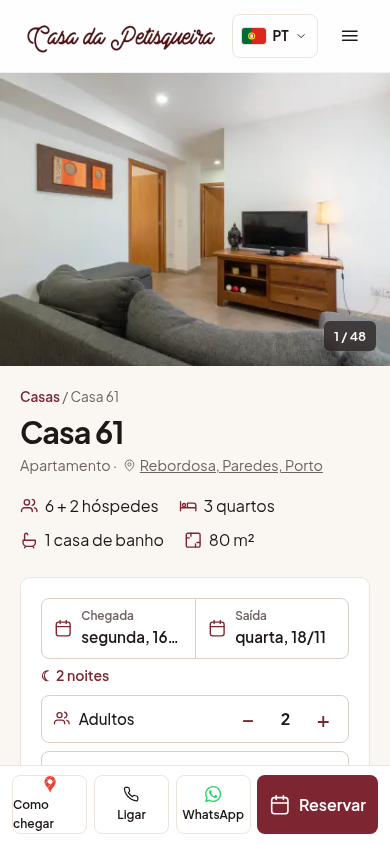
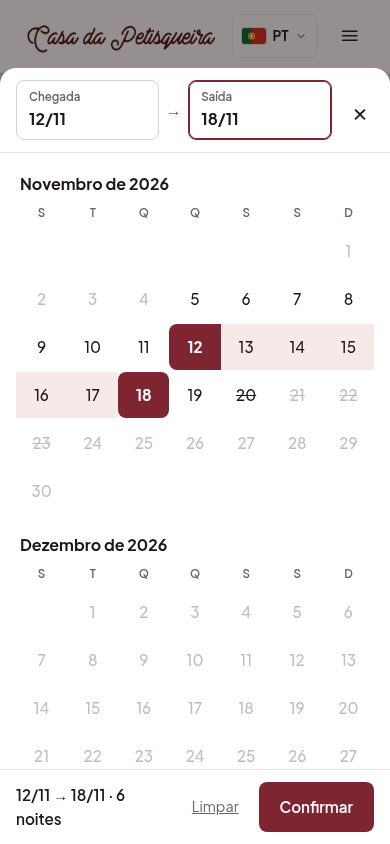
Mais rápido no telemóvel, melhor no Google e mais acessível
- Foto grande em tamanho médio no telemóvel e pré-carregada
- Mapa do site com as 8 línguas; og:locale nas partilhas
- Ícone para o ecrã inicial (site.webmanifest)
- Dias do calendário lidos por extenso; "Saltar para o conteúdo" traduzido
- Ícone de lua nas noites
- GitHub Actions com versões atuais

diff --git a/src/main.js b/src/main.js
@@ -156,7 +156,8 @@ function calendar(form) {
   const fShort = fmt({ day: 'numeric', month: 'short' });
   const fMonth = fmt({ month: 'long', year: 'numeric' });
   const fWeek = fmt({ weekday: 'narrow' });
-  const icon = '☾ ';
+  const fFull = fmt({ weekday: 'long', day: 'numeric', month: 'long' });
+  const moon = '<svg class="icon icon--sm" viewBox="0 0 24 24" fill="none" stroke="currentColor" stroke-width="1.8" stroke-linecap="round" stroke-linejoin="round" aria-hidden="true"><path d="M21 12.8A9 9 0 1 1 11.2 3a7 7 0 0 0 9.8 9.8z"/></svg>';
   const cap = (s) => s.charAt(0).toUpperCase() + s.slice(1);
   const nights = (n) => `${n} ${n === 1 ? t.n1 : n % 10 >= 2 && n % 10 <= 4 && (n % 100 < 10 || n % 100 >= 20) ? t.n2 : t.n5}`;
   const today = iso(new Date());
@@ -176,7 +177,7 @@ function calendar(form) {
     const blanks = (d.getDay() + 6) % 7;
     const days = new Date(d.getFullYear(), d.getMonth() + 1, 0).getDate();
     let cells = '<span></span>'.repeat(blanks);
-    for (let n = 1; n <= days; n++) { const k = iso(new Date(d.getFullYear(), d.getMonth(), n, 12)); cells += `<button type="button" data-d="${k}">${n}</button>`; }
+    for (let n = 1; n <= days; n++) { const k = iso(new Date(d.getFullYear(), d.getMonth(), n, 12)); cells += `<button type="button" data-d="${k}" aria-label="${fFull.format(parse(k))}">${n}</button>`; }
     months += `<section class="cal__month" data-m="${iso(d).slice(0, 7)}"><h3>${cap(fMonth.format(d))}</h3><div class="cal__week">${week}</div><div class="cal__grid">${cells}</div></section>`;
   }
   const tab = (k, label) => `<button type="button" class="cal__tab" data-tab="${k}"><small>${label}</small><b></b></button>`;
@@ -222,7 +223,7 @@ function calendar(form) {
     form.classList.toggle('has-dates', !!(a && b));
     const n = $('[data-nights]', form);
     n.hidden = !(a && b);
-    n.textContent = a && b ? `${icon}${nights(nightsBetween(a, b))}` : '';
+    n.innerHTML = a && b ? `${moon}${nights(nightsBetween(a, b))}` : '';
   };
 
   dlg.addEventListener('click', (e) => {

diff --git a/src/styles.css b/src/styles.css
@@ -461,4 +461,4 @@ body:has(.sheet[open]), body:has(.lightbox[open]) { overflow: hidden; }
 
 .footer__credit { padding-block: 0 1.5rem; font-size: .8rem; color: var(--muted); }
 .footer__credit a { color: inherit; }
-.picker__nights { margin-top: -.15rem; font-size: .88rem; font-weight: 600; color: var(--brand); }
+.picker__nights { display: flex; align-items: center; gap: .4rem; margin-top: -.15rem; font-size: .88rem; font-weight: 600; color: var(--brand); }
